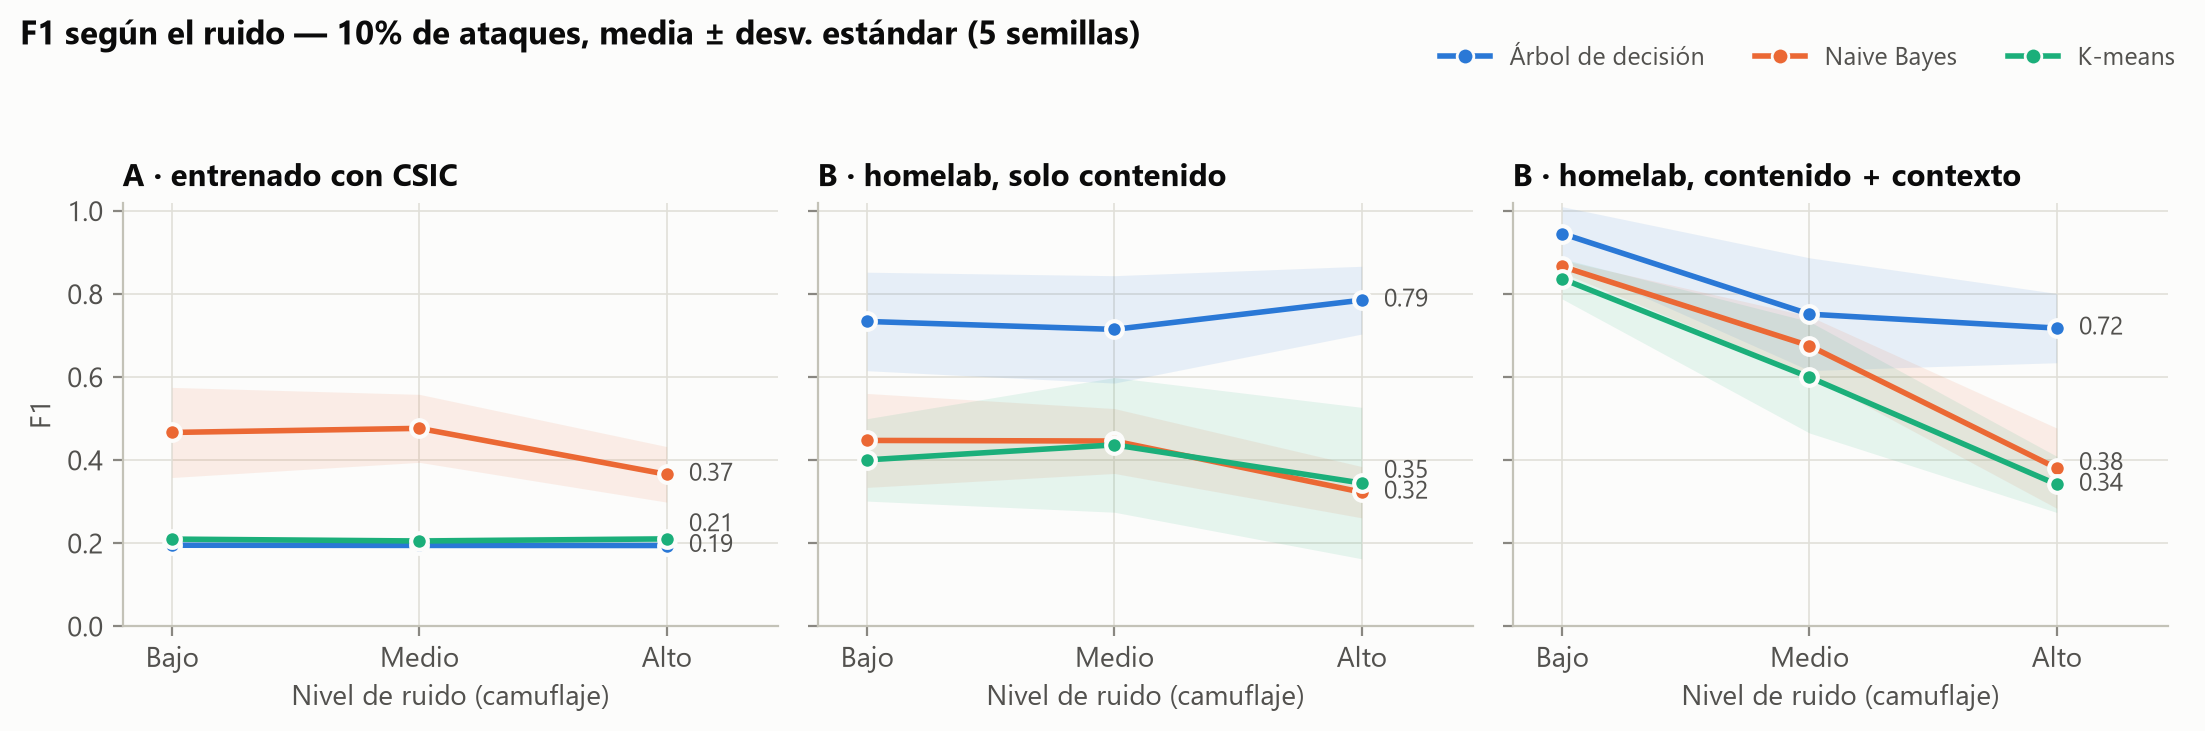
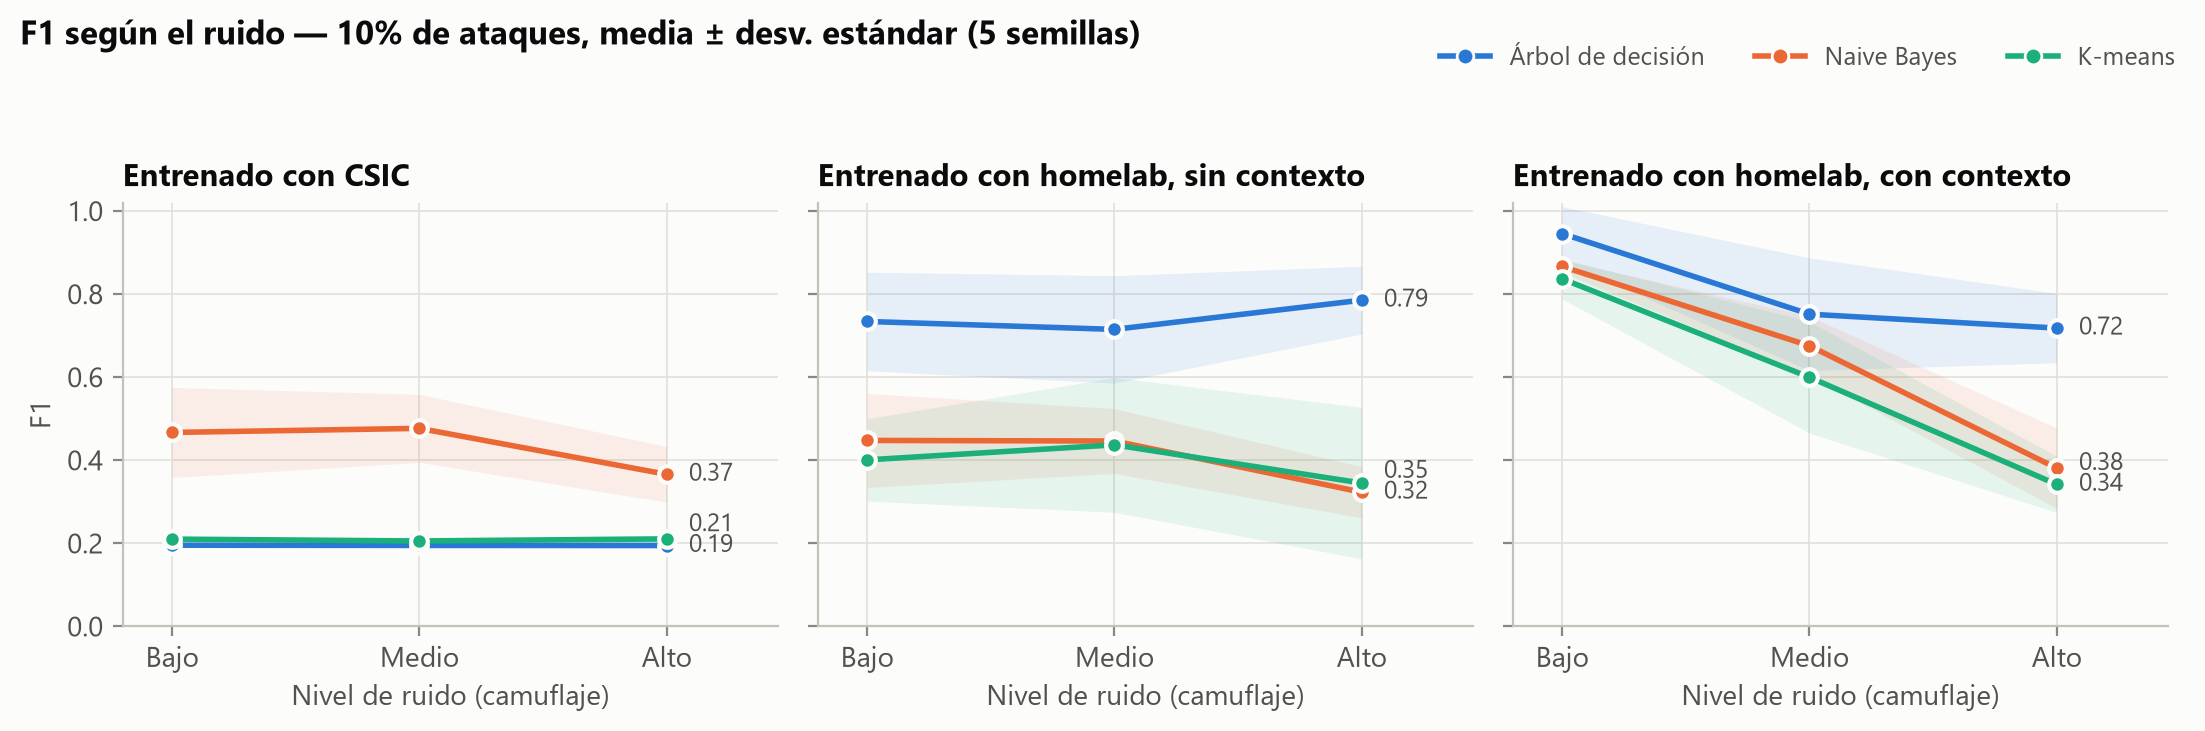
Last push

Changed region(s): [[0.6785, 0.2107, 0.956, 0.2709], [0.3701, 0.2107, 0.6168, 0.2709], [0.0617, 0.2107, 0.2159, 0.2709]]

diff --git a/hlad/plots.py b/hlad/plots.py
@@ -27,8 +27,8 @@ MODEL_COLOR = {"arbol": "#2a78d6", "naive_bayes": "#eb6834", "kmeans": "#1baf7a"
 MODEL_LABEL = {"arbol": "Árbol de decisión", "naive_bayes": "Naive Bayes", "kmeans": "K-means", "fail2ban": "Regla fail2ban"}
 MODELS = ["arbol", "naive_bayes", "kmeans"]
 BLUES = LinearSegmentedColormap.from_list("blues", ["#f4f8fd", "#cde2fb", "#86b6ef", "#3987e5", "#256abf", "#104281"])
-SCEN_LABEL = {"A": "A · entrenado con CSIC", "B_contenido": "B · homelab, solo contenido",
-              "B_completo": "B · homelab, contenido + contexto"}
+SCEN_LABEL = {"A": "Entrenado con CSIC", "B_contenido": "Entrenado con homelab, sin contexto",
+              "B_completo": "Entrenado con homelab, con contexto"}
 NOISES = ["bajo", "medio", "alto"]
 FAMILIES = ["inyeccion", "escaneo", "fuerza_bruta"]
 FAMILY_LABEL = {"inyeccion": "Inyección", "escaneo": "Escaneo", "fuerza_bruta": "Fuerza bruta"}
@@ -127,7 +127,7 @@ def fig_desbalance(runs):
     ax.set_ylabel("F1")
     ax.set_ylim(0, 1.02)
     ax.set_xlim(-0.2, 2.35)
-    ax.set_title("A menos ataques, peor F1 — B_completo, ruido medio", loc="left")
+    ax.set_title(f"A menos ataques, peor F1 — {SCEN_LABEL['B_completo'].lower()}, ruido medio", loc="left")
     ax.legend(loc="lower left", fontsize=9)
     fig.tight_layout()
     _save(fig, "02_f1_por_desbalance", g.pivot_table(index="modelo", columns="ataques",
@@ -135,7 +135,7 @@ def fig_desbalance(runs):
 
 
 def fig_falsos_positivos(runs):
-    """FPR sobre tráfico legítimo: A vs B (ruido medio, 10%)."""
+    """FPR sobre tráfico legítimo: entrenado con CSIC vs con homelab + contexto (ruido medio, 10%)."""
     d = _base(runs)
     d = d[(d["ruido"] == "medio") & (d["ataques"] == 0.1) & d["escenario"].isin(["A", "B_completo"])]
     g = d.groupby(["escenario", "modelo"])["fpr"].agg(["mean", "std"]).reset_index()
@@ -180,13 +180,13 @@ def fig_familias(runs):
     """Recall por familia de ataque: modelo, regla y combinación (ruido medio, 10%)."""
     d = runs[(runs["ruido"] == "medio") & (runs["ataques"] == 0.1)]
     rows = [
-        ("B_contenido", "arbol", "Árbol (contenido)"),
-        ("B_contenido", "naive_bayes", "Naive Bayes (contenido)"),
-        ("B_contenido", "kmeans", "K-means (contenido)"),
-        ("B_completo", "arbol", "Árbol (contenido + contexto)"),
+        ("B_contenido", "arbol", "Árbol (sin contexto)"),
+        ("B_contenido", "naive_bayes", "Naive Bayes (sin contexto)"),
+        ("B_contenido", "kmeans", "K-means (sin contexto)"),
+        ("B_completo", "arbol", "Árbol (con contexto)"),
         ("regla", "fail2ban", "Regla fail2ban sola"),
-        ("B_contenido+fail2ban", "arbol", "Árbol (contenido) + fail2ban"),
-        ("B_completo+fail2ban", "arbol", "Árbol (completo) + fail2ban"),
+        ("B_contenido+fail2ban", "arbol", "Árbol (sin contexto) + fail2ban"),
+        ("B_completo+fail2ban", "arbol", "Árbol (con contexto) + fail2ban"),
     ]
     cols = [f"recall_{f}" for f in FAMILIES] + ["recall"]
     M = np.array([d[(d["escenario"] == s) & (d["modelo"] == m)][cols].mean().to_numpy() for s, m, _ in rows])
